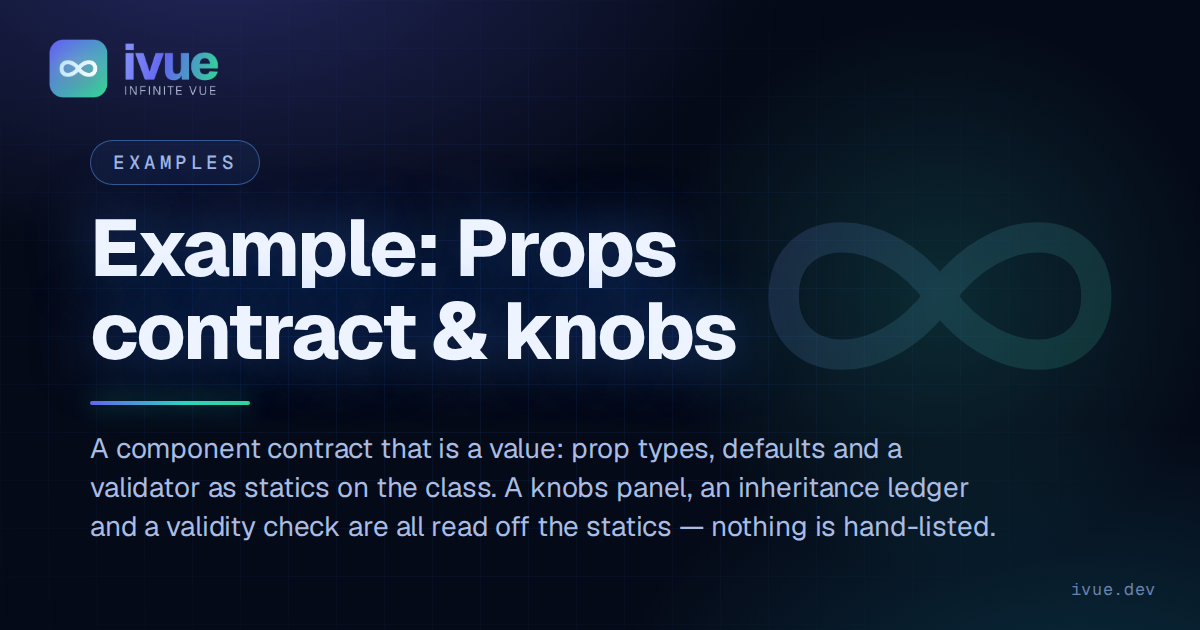
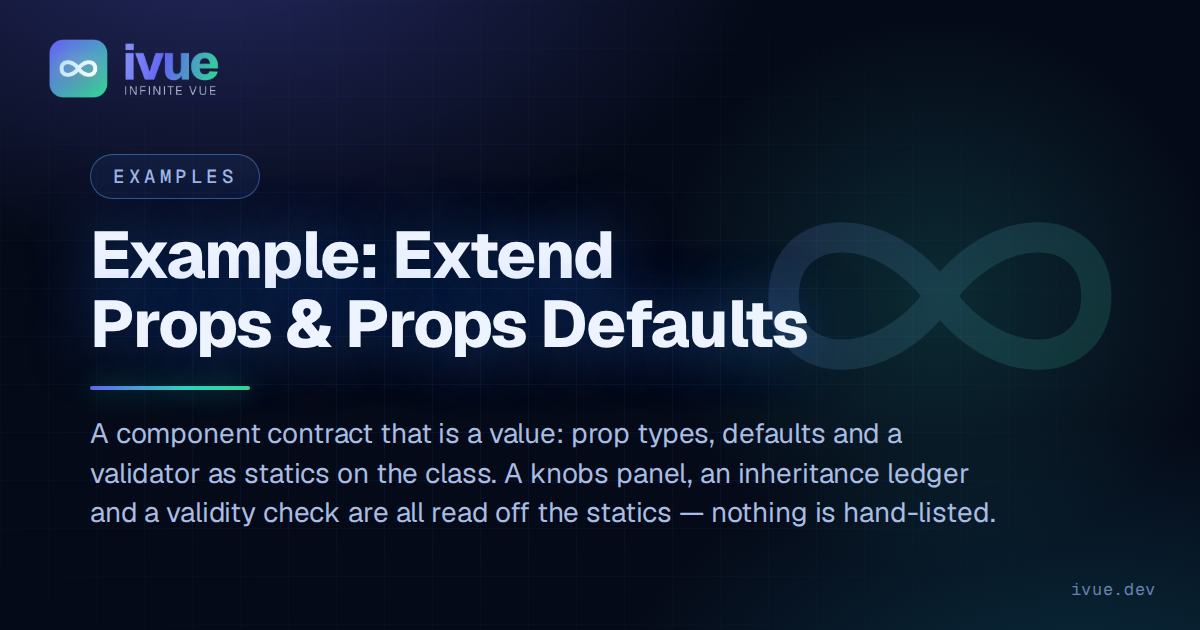
docs: the example page is 'Extend Props & Defaults'
Claude-Session: https://claude.ai/code/session_01W7mVcr2HeSki7uVngU7xJa

Changed region(s): [[0.0617, 0.6032, 0.8325, 0.8746], [0.0617, 0.3317, 0.6783, 0.573], [0.0925, 0.2413, 0.2158, 0.3016]]

diff --git a/docs_v2/.vitepress/config.ts b/docs_v2/.vitepress/config.ts
@@ -730,7 +730,7 @@ export default defineConfig({
             text: 'Start Small',
             items: [
               { text: 'Classic Counter Example', link: '/examples/counter' },
-              { text: 'Props contract & knobs', link: '/examples/props-and-defaults' },
+              { text: 'Extend Props & Props Defaults', link: '/examples/props-and-defaults' },
                 { text: 'Plain getter vs computed()', link: '/examples/derived' },
               { text: 'Lifecycle & Teardown', link: '/examples/lifecycle' },
               { text: 'Inheritance chain', link: '/examples/inheritance' },
@@ -791,7 +791,7 @@ export default defineConfig({
           collapsed: false,
           items: [
             { text: 'Classic Counter Example', link: '/examples/counter' },
-            { text: 'Props contract & knobs', link: '/examples/props-and-defaults' },
+            { text: 'Extend Props & Props Defaults', link: '/examples/props-and-defaults' },
             { text: 'Plain getter vs computed()', link: '/examples/derived' },
             { text: 'Lifecycle & Teardown', link: '/examples/lifecycle' },
             { text: 'Inheritance chain', link: '/examples/inheritance' },

diff --git a/examples/playground/src/examples/props-contract/manifest.ts b/examples/playground/src/examples/props-contract/manifest.ts
@@ -1,6 +1,6 @@
 export const manifest = {
   slug: 'props-contract',
-  title: 'Props contract & knobs',
+  title: 'Extend Props & Props Defaults',
   blurb:
     'The contract is a value on the class — a knobs panel, a validator and an inheritance ledger all read off the statics.',
   docsPath: '/examples/props-and-defaults',

diff --git a/docs_v2/examples/props-and-defaults.md b/docs_v2/examples/props-and-defaults.md
@@ -1,5 +1,5 @@
 ---
-title: 'Example: Props contract & knobs'
+title: 'Example: Extend Props & Props Defaults'
 description: 'A component contract that is a value: prop types, defaults and a validator as statics on the class. A knobs panel, an inheritance ledger and a validity check are all read off the statics — nothing is hand-listed.'
 relatedPosts: [runtime-props-all-along, props-inherit-now, single-file-models]
 ---
@@ -8,7 +8,7 @@ relatedPosts: [runtime-props-all-along, props-inherit-now, single-file-models]
 import ExamplePropsContract from '../.vitepress/theme/components/examples/ExamplePropsContract.vue'
 </script>
 
-# Props contract & knobs
+# Extend Props & Props Defaults
 
 `Badge` declares its contract as three static getters: the prop types, the
 defaults, and the fused `props` object the SFC hands to `defineProps`.

diff --git a/docs_v2/guide/props-and-defaults.md b/docs_v2/guide/props-and-defaults.md
@@ -142,6 +142,6 @@ contract that is never erased and never declared twice.
 
 ## See it running
 
-- [Props contract & knobs](/examples/props-and-defaults) — a knobs panel, a validator verdict and an inheritance ledger, all read off two classes' statics.
+- [Extend Props & Props Defaults](/examples/props-and-defaults) — a knobs panel, a validator verdict and an inheritance ledger, all read off two classes' statics.
 - [Advanced Select Field](/examples/choose-field) — a forty-five prop contract, extended by a variant that adds three.
 - [Horizontal Scroller](/examples/horizontal-scroller) — the vertical scroller's contract with one default re-tuned.
